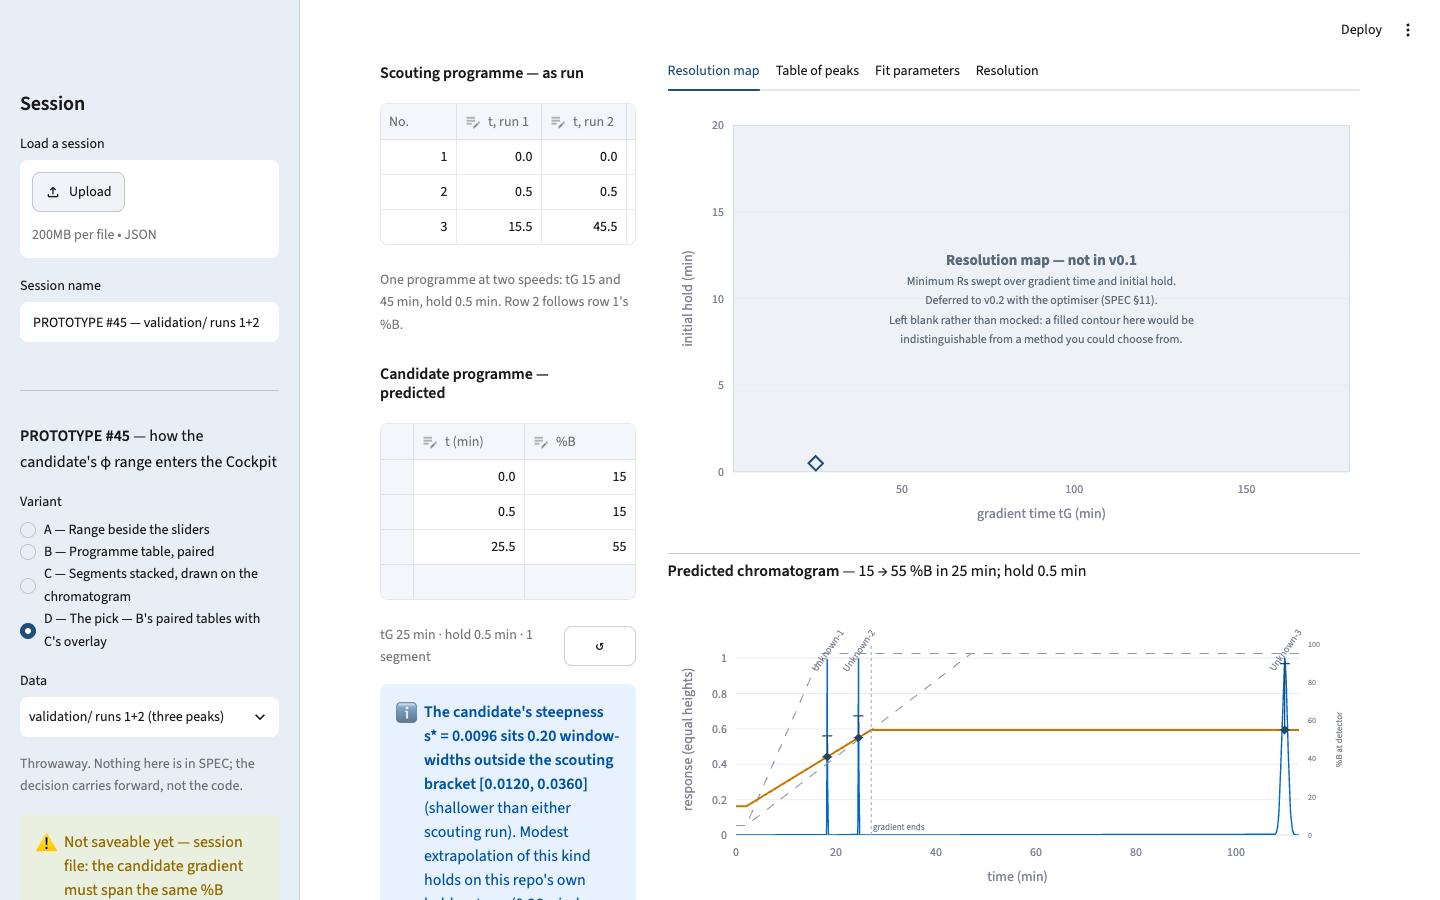
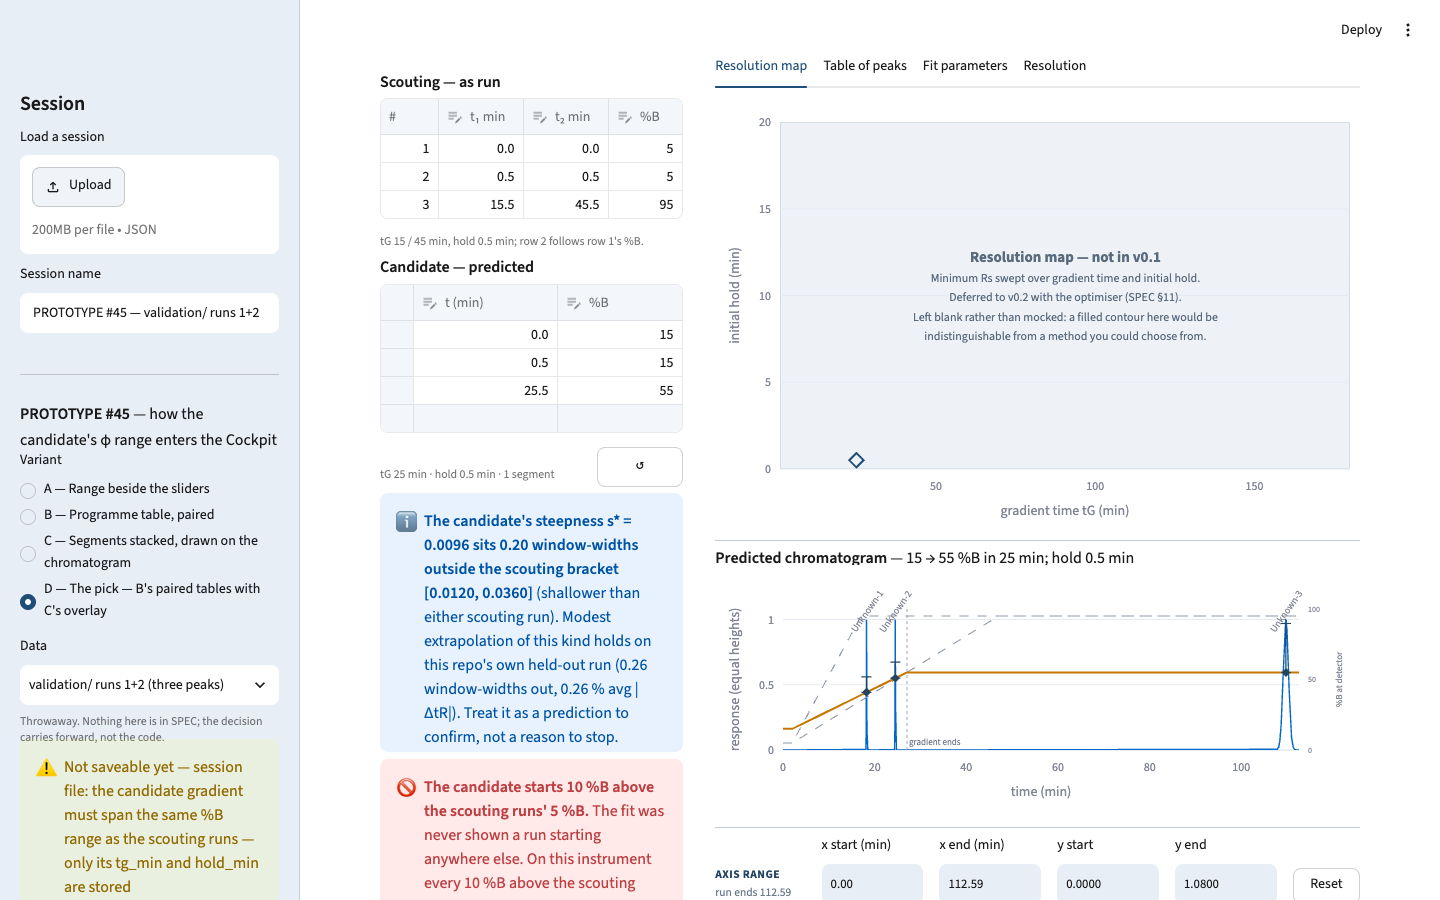
Prototype #45: compact spacing and a rail wide enough for the scouting table
Driver's review of D: the scouting table's %B column was clipped by the rail, and
Streamlit's 1rem block gaps read as white space. The rail grows from 1.15 to 1.45
shares, both tables get fixed narrow columns and 28 px rows, headings and captions
shorten, and the block gap drops to 0.4rem. At 1440 × 900 both inline warnings and
the axis strip are now on screen in the trap case.

Claude-Session: https://claude.ai/code/session_01MYgmJEqufCXWGuBq3XcDh4

diff --git a/prototype/variants.py b/prototype/variants.py
@@ -216,7 +216,7 @@ _B_SCOUT_COLS = ["No.", "Time run 1 (min)", "Time run 2 (min)", "%B"]
 
 def scouting_b(ctx: RailContext) -> tuple[Run, Run]:
     """The scouting programme as a No./Time/%B table with two time columns."""
-    st.markdown("### Scouting programme — as run")
+    st.markdown("### Scouting — as run")
     K = ctx.keys
     c = ctx.constants
     tg1 = float(st.session_state.get(K.TG_RUN1, 15.0))
@@ -254,14 +254,15 @@ def scouting_b(ctx: RailContext) -> tuple[Run, Run]:
     st.data_editor(
         pd.DataFrame(rows, columns=_B_SCOUT_COLS), key=key, hide_index=True, width="stretch",
         disabled=["No."], on_change=_apply,
+        row_height=28,
         column_config={
-            "No.": st.column_config.NumberColumn(width="small"),
-            "Time run 1 (min)": st.column_config.NumberColumn("t, run 1", format="%.1f", step=0.5),
-            "Time run 2 (min)": st.column_config.NumberColumn("t, run 2", format="%.1f", step=0.5),
-            "%B": st.column_config.NumberColumn(format="%.0f", step=1.0, min_value=0.0, max_value=100.0),
+            "No.": st.column_config.NumberColumn("#", width=34),
+            "Time run 1 (min)": st.column_config.NumberColumn("t₁ min", format="%.1f", step=0.5, width=62),
+            "Time run 2 (min)": st.column_config.NumberColumn("t₂ min", format="%.1f", step=0.5, width=62),
+            "%B": st.column_config.NumberColumn("%B", format="%.0f", step=1.0, min_value=0.0, max_value=100.0, width=50),
         },
     )
-    st.caption(f"One programme at two speeds: tG {tg1:g} and {tg2:g} min, hold {hold:g} min. Row 2 follows row 1's %B.")
+    st.caption(f"tG {tg1:g} / {tg2:g} min, hold {hold:g} min; row 2 follows row 1's %B.")
     return (
         Run(c.gradient(tg1), name=f"tG{tg1:g}"),
         Run(c.gradient(tg2), name=f"tG{tg2:g}"),
@@ -269,7 +270,7 @@ def scouting_b(ctx: RailContext) -> tuple[Run, Run]:
 
 
 def rail_b(ctx: RailContext) -> Programme:
-    st.markdown("### Candidate programme — predicted")
+    st.markdown("### Candidate — predicted")
     c = ctx.constants
     scout = (float(c.percent_b_start), float(c.percent_b_end), float(c.hold))
     # `?b0=&b1=&tg=` seed the candidate on load (the other branch's convention), so a
@@ -289,10 +290,10 @@ def rail_b(ctx: RailContext) -> Programme:
     base = pd.DataFrame([[0.0, phi0], [hold, phi0], [hold + tg, phif]], columns=["Time (min)", "%B"])
     df = st.data_editor(
         base, num_rows="dynamic", key=f"p45_b_cand_{st.session_state['p45_b_nonce']}",
-        width="stretch", hide_index=True,
+        width="stretch", hide_index=True, row_height=28,
         column_config={
-            "Time (min)": st.column_config.NumberColumn("t (min)", format="%.1f", step=0.5, min_value=0.0, width="small"),
-            "%B": st.column_config.NumberColumn(format="%.0f", step=1.0, min_value=0.0, max_value=100.0, width="small"),
+            "Time (min)": st.column_config.NumberColumn("t (min)", format="%.1f", step=0.5, min_value=0.0, width=90),
+            "%B": st.column_config.NumberColumn(format="%.0f", step=1.0, min_value=0.0, max_value=100.0, width=70),
         },
     )
     programme, note = _parse_table(df, fallback_tg=tg)

diff --git a/streamlit_app.py b/streamlit_app.py
@@ -122,7 +122,21 @@ _UNTITLED = "Untitled session"
 # PROTOTYPE #45: the always-open axis strip beneath the chromatogram (driver's request).
 _AXIS_STRIP_STYLE = """
 <style>
-  :root { --hs-axis-height: 92px; }
+  :root { --hs-axis-height: 84px; }
+  /* Compact spacing (driver's request): Streamlit's 1rem block gap and heading margins
+     are what the white gaps were. */
+  .block-container { padding-top: 2.6rem !important; }
+  div[data-testid="stVerticalBlock"] { gap: 0.4rem; }
+  div[data-testid="stVerticalBlock"] > div[data-testid="stElementContainer"] { margin: 0; }
+  h3 { margin: 0.35rem 0 0.05rem !important; }
+  div[data-testid="stCaptionContainer"] p { margin: 0; font-size: 0.74rem; line-height: 1.3; }
+  div[data-testid="stMarkdownContainer"] p { margin-bottom: 0.2rem; }
+  div[data-testid="stTabs"] { margin-top: -0.4rem; }
+  .hs-panel { margin-bottom: 4px; }
+  .hs-table td { padding: 2px 8px; }
+  div[data-testid="stNumberInput"] label, div[data-testid="stSlider"] label { font-size: 0.76rem; }
+  div[data-testid="stSelectbox"] > div, div[data-testid="stNumberInput"] > div { min-height: 0; }
+  section[data-testid="stSidebar"] div[data-testid="stVerticalBlock"] { gap: 0.6rem; }
   /* Its own pinned strip between the chromatogram block and the status bar — the same
      sticky-in-column technique as both neighbours. Fixed height so the block above can
      sit exactly on top of it. */
@@ -275,7 +289,7 @@ def main() -> None:
         # fastest way out of this screen and the reason the uploader is drawn above it.
         return
 
-    rail, main_view = st.columns([1.15, 3.0], gap="medium")
+    rail, main_view = st.columns([1.45, 3.0], gap="medium")  # PROTOTYPE #45: room for a 4-column table
 
     with rail:
         # PROTOTYPE #45: the scouting runs and the candidate controls are the variant's.
